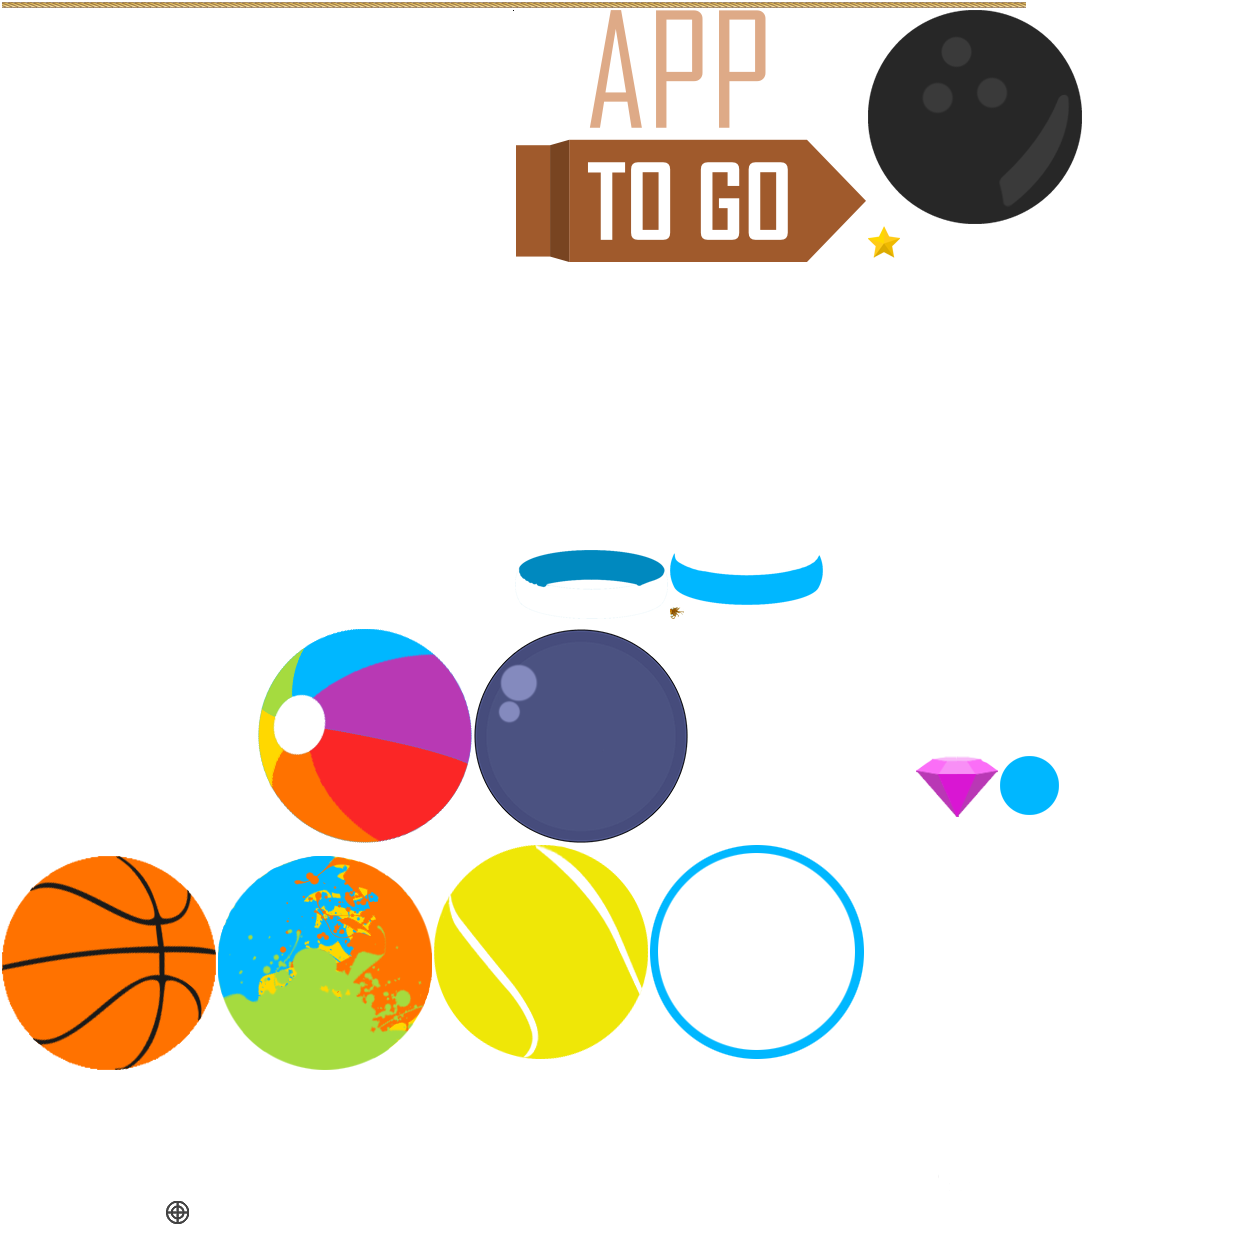
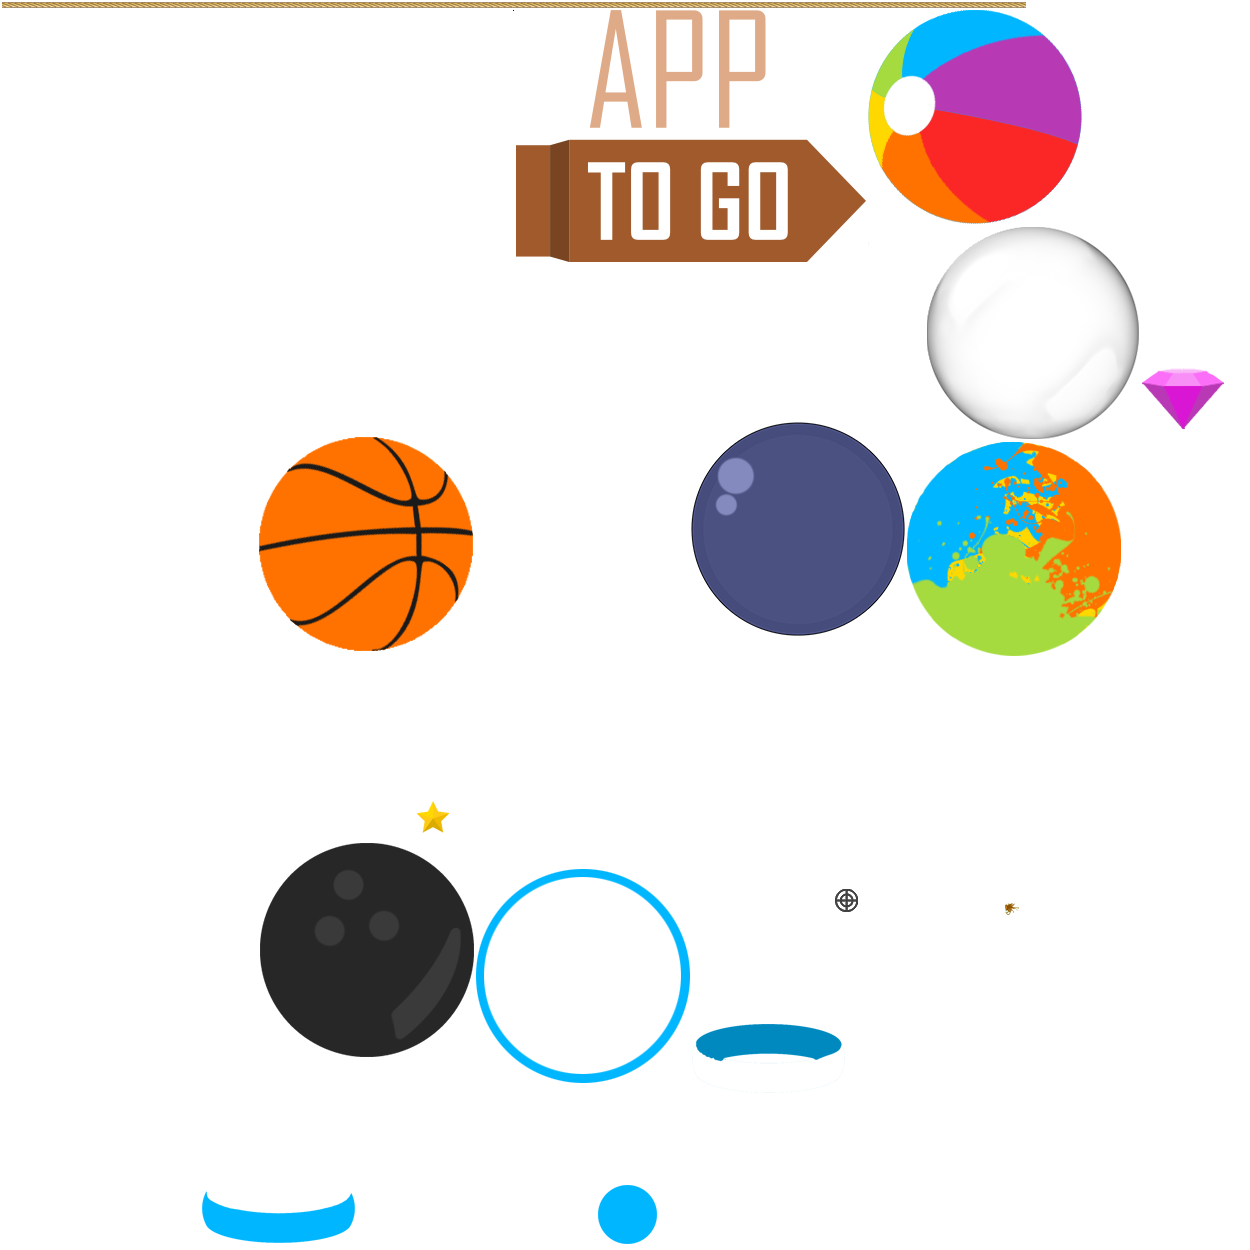
changed tennis to bubble and adjusted balls params + fix for camera jittering

diff --git a/core/src/com/apptogo/roperace/enums/BallData.java b/core/src/com/apptogo/roperace/enums/BallData.java
@@ -6,12 +6,12 @@ import java.util.Map;
 
 public enum BallData {
 	
-	NORMAL(1, 0.5f, 1.5f, 0.5f, 0.5f, -0.02f),
-	TENNIS(2, 0.25f, 7f, 0.6f, 0.6f, -0.02f),
-	BASKET(3, 0.5f, 5f, 0.5f, 0.5f, -0.02f),
-	BOWLING(4, 0.5f, 5f, 0.5f, 0.5f, -0.02f),
-	RUBBER(5, 0.2f, 5f, 0.5f, 0.8f, -0.02f),
-	BEACH(6, 0.55f, 5f, 0.5f, 0.5f, -0.02f);
+	NORMAL(1, 0.5f, 1.7f, 0.1f, 0.5f, -0.02f),
+	BUBBLE(2, 0.4f, 50f, 0f, 0f, -0.02f),
+	BASKET(3, 0.5f, 2f, 0.05f, 0.8f, 0.03f),
+	BOWLING(4, 0.5f, 1f, 0.05f, 0.3f, -0.02f),
+	RUBBER(5, 0.2f, 6f, 0.1f, 0.9f, -0.02f),
+	BEACH(6, 0.55f, 4f, 0.1f, 0.7f, 0.002f);
 	
     private static Map<Integer, BallData> map = new HashMap<Integer, BallData>();
 

diff --git a/core/src/com/apptogo/roperace/screen/GameScreen.java b/core/src/com/apptogo/roperace/screen/GameScreen.java
@@ -202,8 +202,9 @@ public class GameScreen extends BasicScreen {
 		this.steeringHudStage.act(delta);
 		this.labelStage.act(delta);
 
-		this.cameraFollowingPlugin.updateCamera();
+
 		this.frontStage.act(delta);
+		this.cameraFollowingPlugin.updateCamera();
 		this.backViewport.apply();
 		this.backStage.draw();
 
